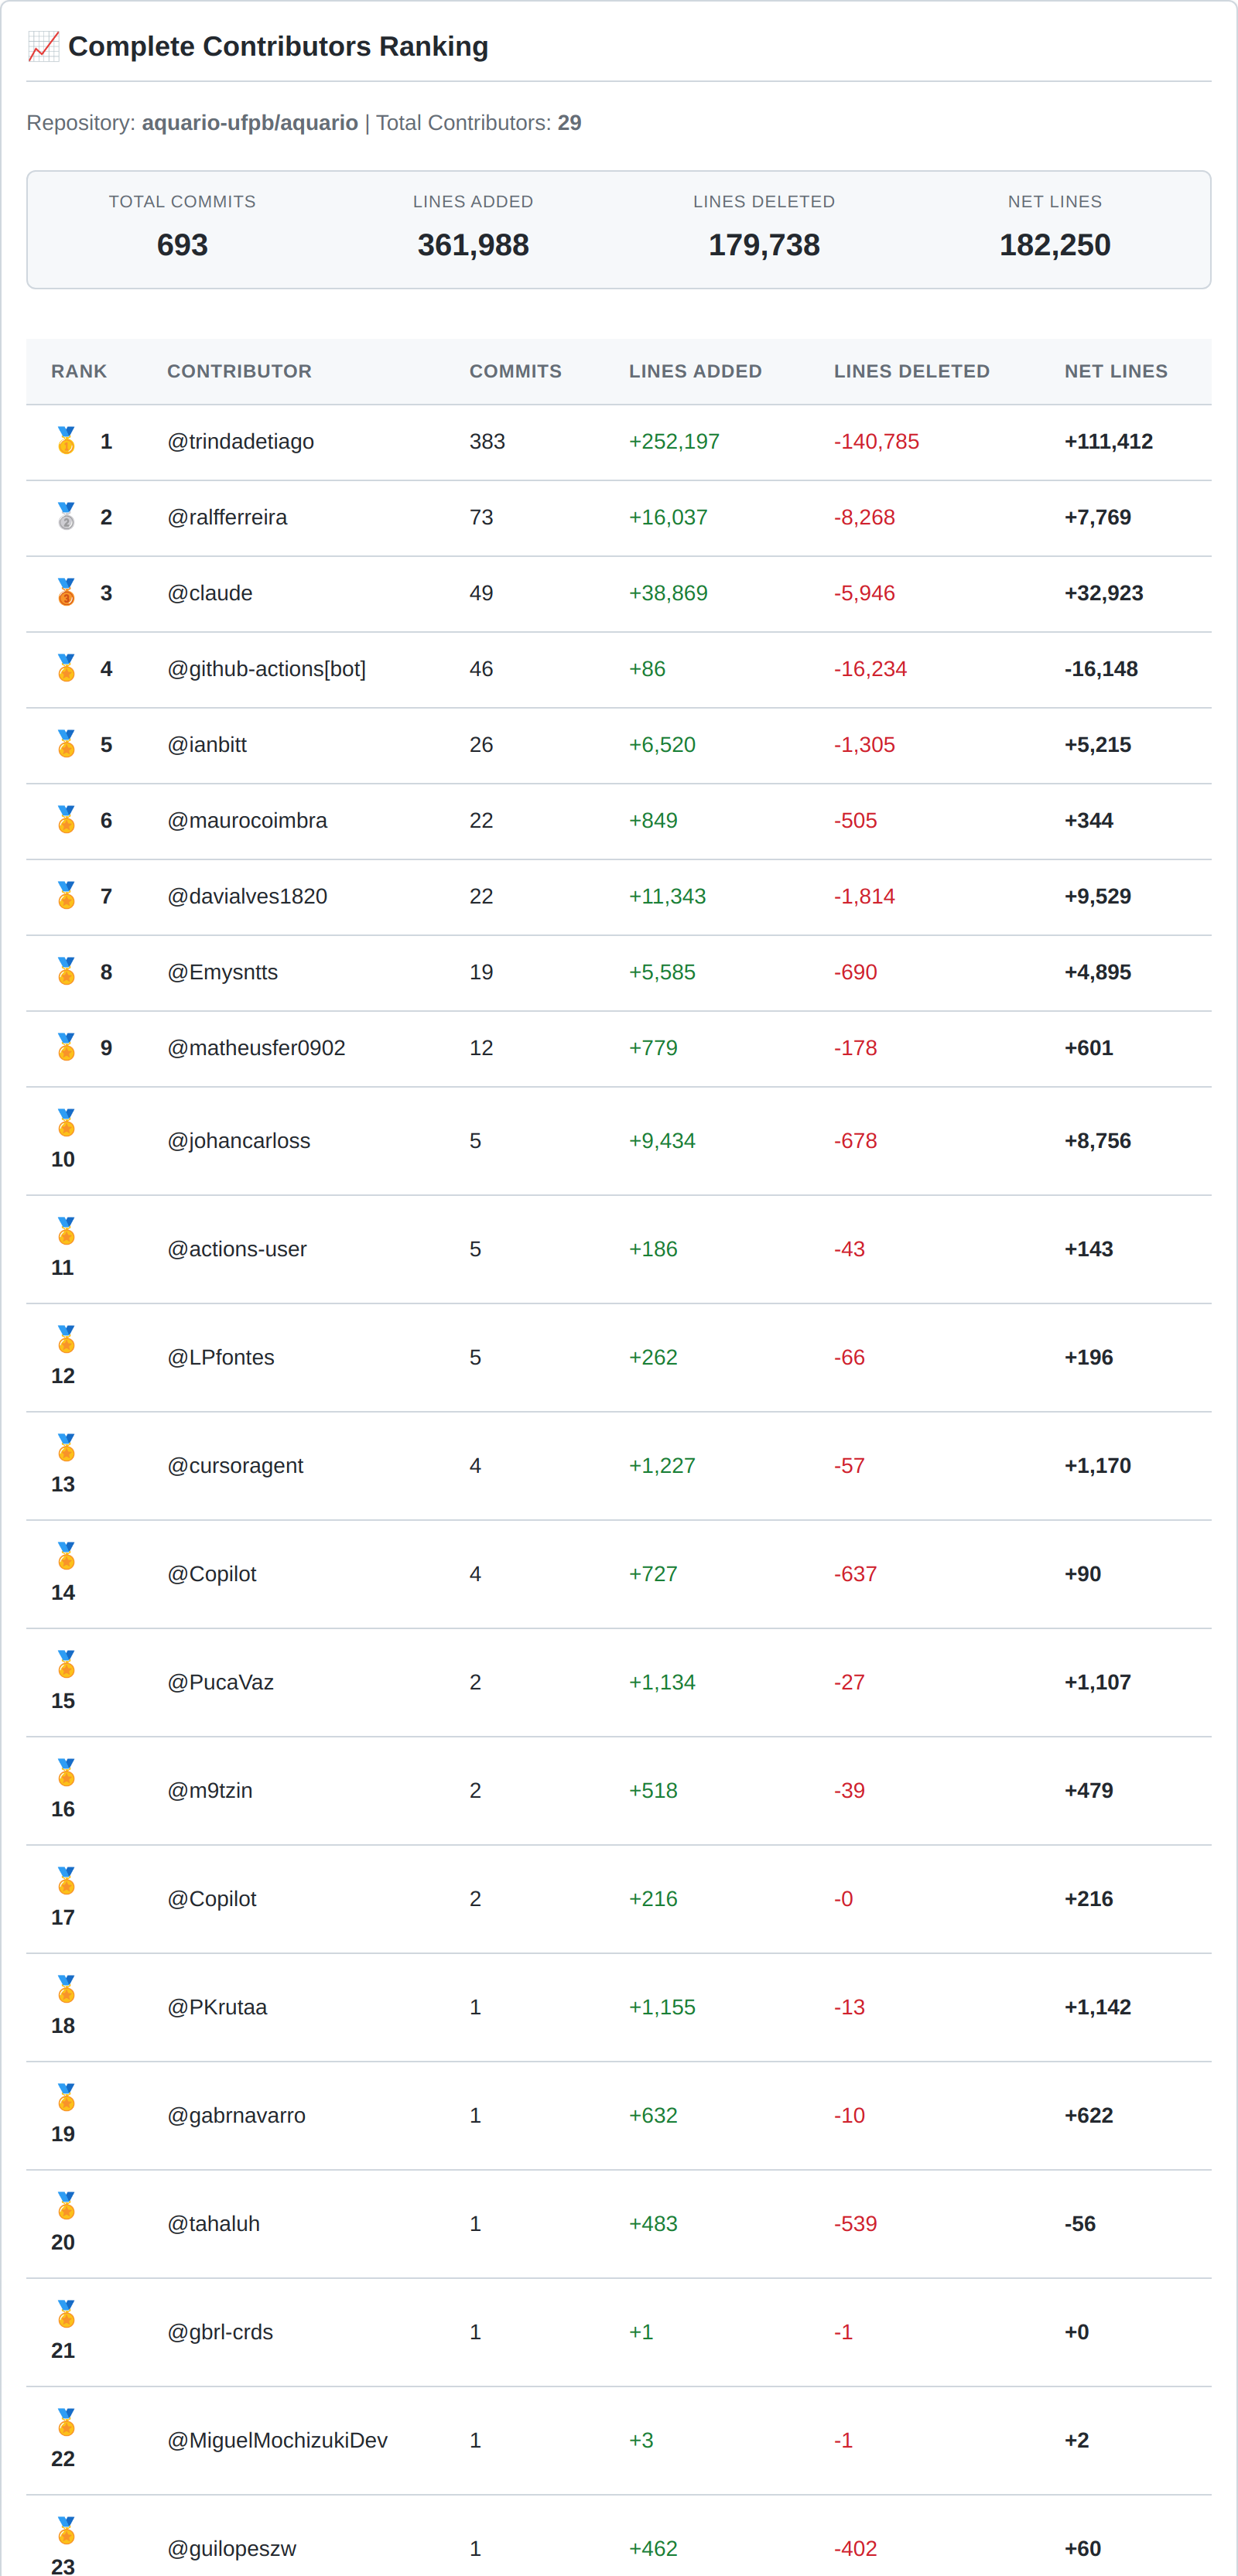
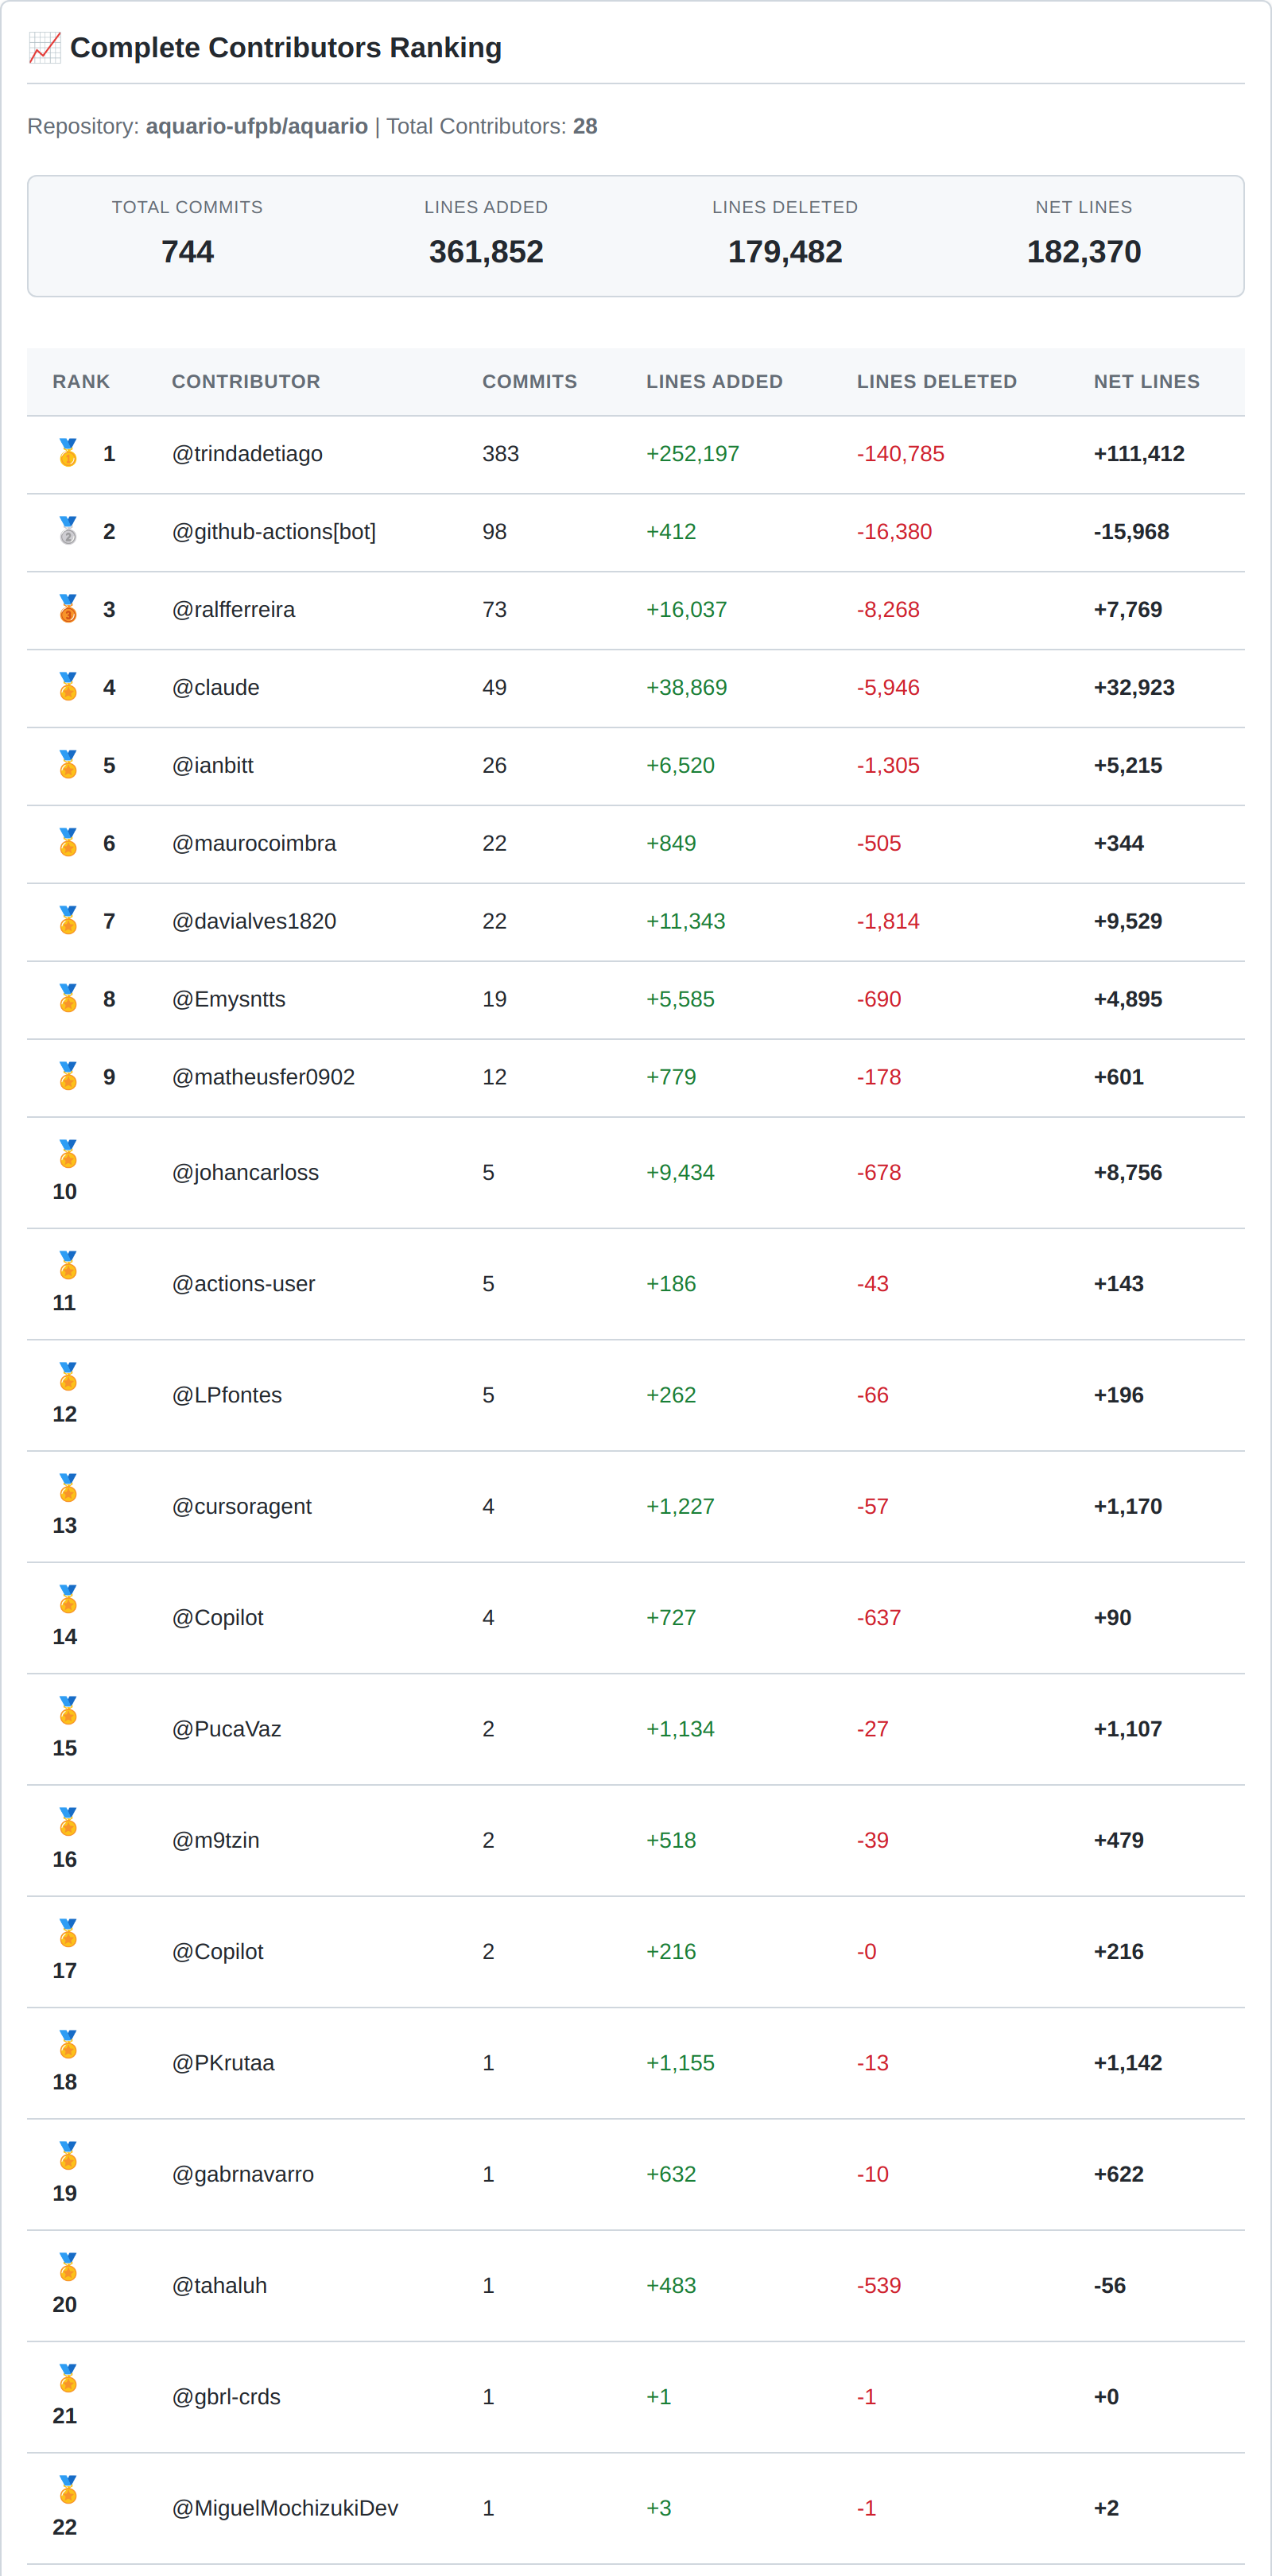
📊 Update contributor insights and visualizations [skip ci]

diff --git a/CONTRIBUTOR_INSIGHTS.md b/CONTRIBUTOR_INSIGHTS.md
@@ -1,7 +1,7 @@
 # 📊 Contributor Insights
 
 > **Repository:** aquario-ufpb/aquario  
-> **Last Updated:** Sunday, June 21, 2026 at 06:57 AM  
+> **Last Updated:** Sunday, June 28, 2026 at 06:25 AM  
 > **Generated by:** [GitHub Action](.github/workflows/contributor-insights.yml)
 
 ---
@@ -10,14 +10,14 @@
 
 | Metric | Value |
 |--------|-------|
-| **Total Contributors** | 29 |
-| **Total Commits** | 693 |
-| **Total Lines Added** | +361,988 |
-| **Total Lines Deleted** | -179,738 |
-| **Net Lines Changed** | +182,250 |
-| **Average Commits per Contributor** | 24 |
+| **Total Contributors** | 28 |
+| **Total Commits** | 744 |
+| **Total Lines Added** | +361,852 |
+| **Total Lines Deleted** | -179,482 |
+| **Net Lines Changed** | +182,370 |
+| **Average Commits per Contributor** | 27 |
 | **Most Active Contributor** | [@trindadetiago](https://github.com/trindadetiago) |
-| **Activity Trend** | 📊 stable |
+| **Activity Trend** | 📈 increasing |
 
 ---
 
@@ -26,9 +26,9 @@
 | Rank | Contributor | Commits | Lines Added | Lines Deleted | Net Lines |
 |------|-------------|---------|-------------|---------------|-----------|
 | 🥇 1 | [@trindadetiago](https://github.com/trindadetiago) | 383 | +252,197 | -140,785 | +111,412 |
-| 🥈 2 | [@ralfferreira](https://github.com/ralfferreira) | 73 | +16,037 | -8,268 | +7,769 |
-| 🥉 3 | [@claude](https://github.com/claude) | 49 | +38,869 | -5,946 | +32,923 |
-| 🏅 4 | [@github-actions[bot]](https://github.com/github-actions[bot]) | 46 | +86 | -16,234 | -16,148 |
+| 🥈 2 | [@github-actions[bot]](https://github.com/github-actions[bot]) | 98 | +412 | -16,380 | -15,968 |
+| 🥉 3 | [@ralfferreira](https://github.com/ralfferreira) | 73 | +16,037 | -8,268 | +7,769 |
+| 🏅 4 | [@claude](https://github.com/claude) | 49 | +38,869 | -5,946 | +32,923 |
 | 🏅 5 | [@ianbitt](https://github.com/ianbitt) | 26 | +6,520 | -1,305 | +5,215 |
 
 ---
@@ -36,16 +36,16 @@
 ## 📈 Activity Analysis
 
 ### Weekly Activity Highlights
-- **Most Active Week:** 2025-11-02 (69 commits by 28 contributors)
-- **Least Active Week:** 2024-07-21 (1 commits by 28 contributors)
+- **Most Active Week:** 2025-11-02 (69 commits by 27 contributors)
+- **Least Active Week:** 2024-07-21 (1 commits by 27 contributors)
 
 ### Recent Activity (Last 4 Weeks)
-- **Total Commits:** 20
-- **Average per Week:** 5
+- **Total Commits:** 71
+- **Average per Week:** 17.8
 - **Weeks with Activity:** 4/4
-- **Lines Added:** +7,116
-- **Lines Deleted:** -436
-- **Net Lines:** +6,680
+- **Lines Added:** +7,441
+- **Lines Deleted:** -581
+- **Net Lines:** +6,860
 
 ---
 
@@ -60,11 +60,11 @@
 
 | Range | Contributors | Percentage |
 |-------|-------------|------------|
-| 1-5 commits | 20 | 69% |
+| 1-5 commits | 19 | 68% |
 | 6-20 commits | 2 | 7% |
-| 21-50 commits | 5 | 17% |
-| 51-100 commits | 1 | 3% |
-| 100+ commits | 1 | 3% |
+| 21-50 commits | 4 | 14% |
+| 51-100 commits | 2 | 7% |
+| 100+ commits | 1 | 4% |
 
 ---
 
@@ -72,9 +72,9 @@
 
 | Period | Commits | Contributors | Activity Level |
 |--------|---------|-------------|----------------|
-| **Last 4 weeks** | 20 | 4 active | 5 avg/week |
-| **Last 8 weeks** | 45 | 8 active | 5.6 avg/week |
-| **All time** | 693 | 29 | 12 avg/week |
+| **Last 4 weeks** | 71 | 4 active | 17.8 avg/week |
+| **Last 8 weeks** | 78 | 8 active | 9.8 avg/week |
+| **All time** | 744 | 28 | 13 avg/week |
 
 ---
 
@@ -82,7 +82,7 @@
 
 This report is automatically generated every **Sunday at 2 AM UTC** by a GitHub Action. You can also trigger it manually from the Actions tab.
 
-**Last run:** 2026-06-21T06:57:06.165Z
+**Last run:** 2026-06-28T06:25:53.779Z
 
 ---
 